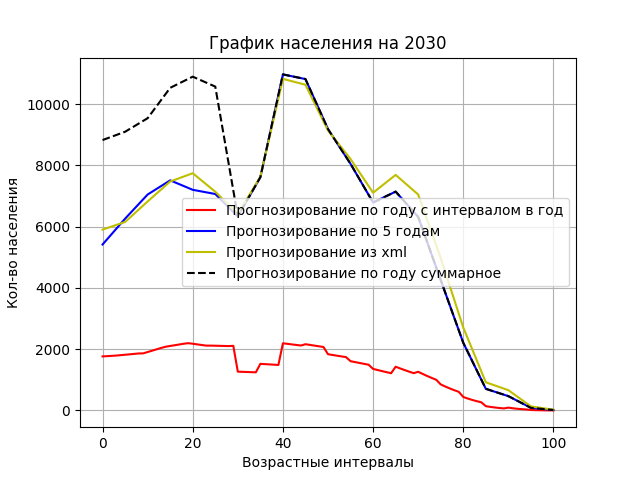
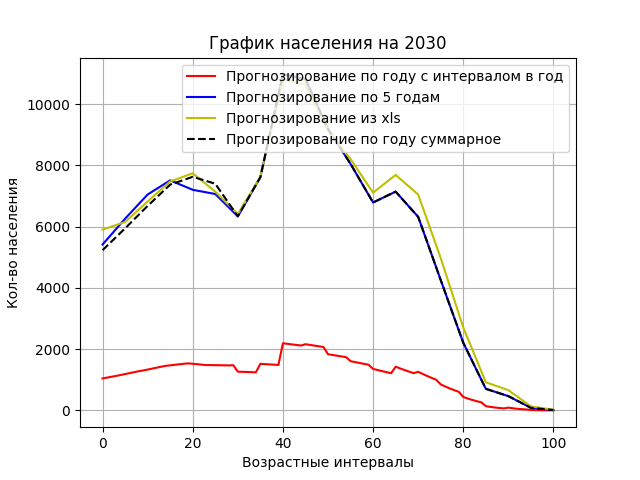
corrected algorithm

diff --git a/main.py b/main.py
@@ -229,8 +229,7 @@ class Main:
 		initial_year = {start_year: split_interval(self.data[start_year])}
 
 		# factors, ff = {}, self.female_factor['general'] / 5
-		# factors, ff = {}, (self.female_factor['general'] * 2 / 1.325) / 5
-		factors, ff = {}, (self.female_factor['general'] * 1.9 / 1.325) / 5
+		factors, ff = {}, (self.female_factor['general'] * 2 / 1.325) / 5
 		for interval in sorted(self.factors, key=lambda k: int(k.split('-')[0])):
 			start = int(interval.split('-')[0])
 			value = min(math.pow(self.factors[interval], 1 / 5), 1.0)
@@ -243,14 +242,14 @@ class Main:
 
 		for_prediction, fm = initial_year[start_year], self.female_factor
 		for num in range(1, 501, 1):
-			if num % 20 == 0:
+			if num % 100 == 0:
 				log.info('Calculating for an year and an interval in {} iteration...'.format(num))
 
 			children = ff * get_number_middle_female_year(for_prediction)
 			new_data = {0: {'male': children * fm['male'], 'female': children * fm['female']}}
 
 			next_year = self.years[0] + num
-			log.info('{} - {} number of people.'.format(next_year, int(sum(union_count_genders(v) for v in for_prediction.values()))))
+			# log.info('{} - {} number of people.'.format(next_year, int(sum(union_count_genders(v) for v in for_prediction.values()))))
 			data[next_year] = [int(children)]
 			for interval in sorted(factors):
 				new_data[interval + 1] = new_interval(for_prediction[interval], factors[interval])
@@ -274,7 +273,7 @@ if __name__ == '__main__':
 
 	plot = Plot(main)
 	# plot.draw_factors("Коэффициенты \"выживаемости\"", "Возрастные интервалы", "Коэффициэнты")
-	# plot.draw_by_year("График населения", "Возрастные интервалы", "Кол-во населения")
+	plot.draw_by_year("График населения", "Возрастные интервалы", "Кол-во населения")
 	# plot.draw_compare('{}_by_interval'.format(folder), "График населения на {}", "Возрастные интервалы",
 	#                   "Кол-во населения")
 	plot.draw_factors_new("Коэффициенты \"выживаемости\"", "Возрастные интервалы", "Коэффициэнты")

diff --git a/plot.py b/plot.py
@@ -75,16 +75,12 @@ class Plot:
 			plt.clf()
 
 	def draw_compare_with_interval(self, folder: str, title: str, x_label: str, y_label: str):
-		for year in range(2100, 2101, 100):
+		for year in range(2020, 2021, 20):
 			log.info('Render the plot for {} year...'.format(year))
 			ax = plt.subplot()
-			# x, y = [], []
-			# for interval in sorted(self.main.prediction[year].keys(), key=lambda k: int(k.split('-')[0])):
-			# 	x.append(int(interval.split('-')[0]))
-			# 	y.append(union_count_genders(self.main.prediction[year][interval]))
-			# ax.plot(x, y, 'g', label='Прогнозирование по году с интервалом в 5 лет')
-
 			x, y = [], []
+			log.info('{} - {} number of people in prediction.'
+			         .format(year, int(sum(union_count_genders(v) for v in self.main.interval_prediction[year].values()))))
 			for interval in self.main.interval_prediction[year].keys():
 				x.append(int(interval))
 				y.append(union_count_genders(self.main.interval_prediction[year][interval]))
@@ -100,6 +96,8 @@ class Plot:
 				if year < 2051:
 					x, y = [], []
 					xml_data = self.main.data_helper.get_prediction(year)[year]
+					log.info('{} - {} number of people in xls .'
+					         .format(year, int(sum(union_count_genders(v) for v in xml_data.values()))))
 					for interval in sorted(xml_data.keys(), key=lambda k: int(k.split('-')[0])):
 						x.append(int(interval.split('-')[0]))
 						y.append(union_count_genders(xml_data[interval]))
@@ -117,8 +115,8 @@ class Plot:
 			plt.grid()
 			plt.legend(loc='best')
 			Plot.set_labels(title.format(year), x_label, y_label)
-			plt.show()
-			# plt.savefig('plots/{}/fig-{}.png'.format(folder, year))
+			# plt.show()
+			plt.savefig('plots/{}/fig-{}.png'.format(folder, year))
 			plt.clf()
 
 	def draw_year(self, year):
